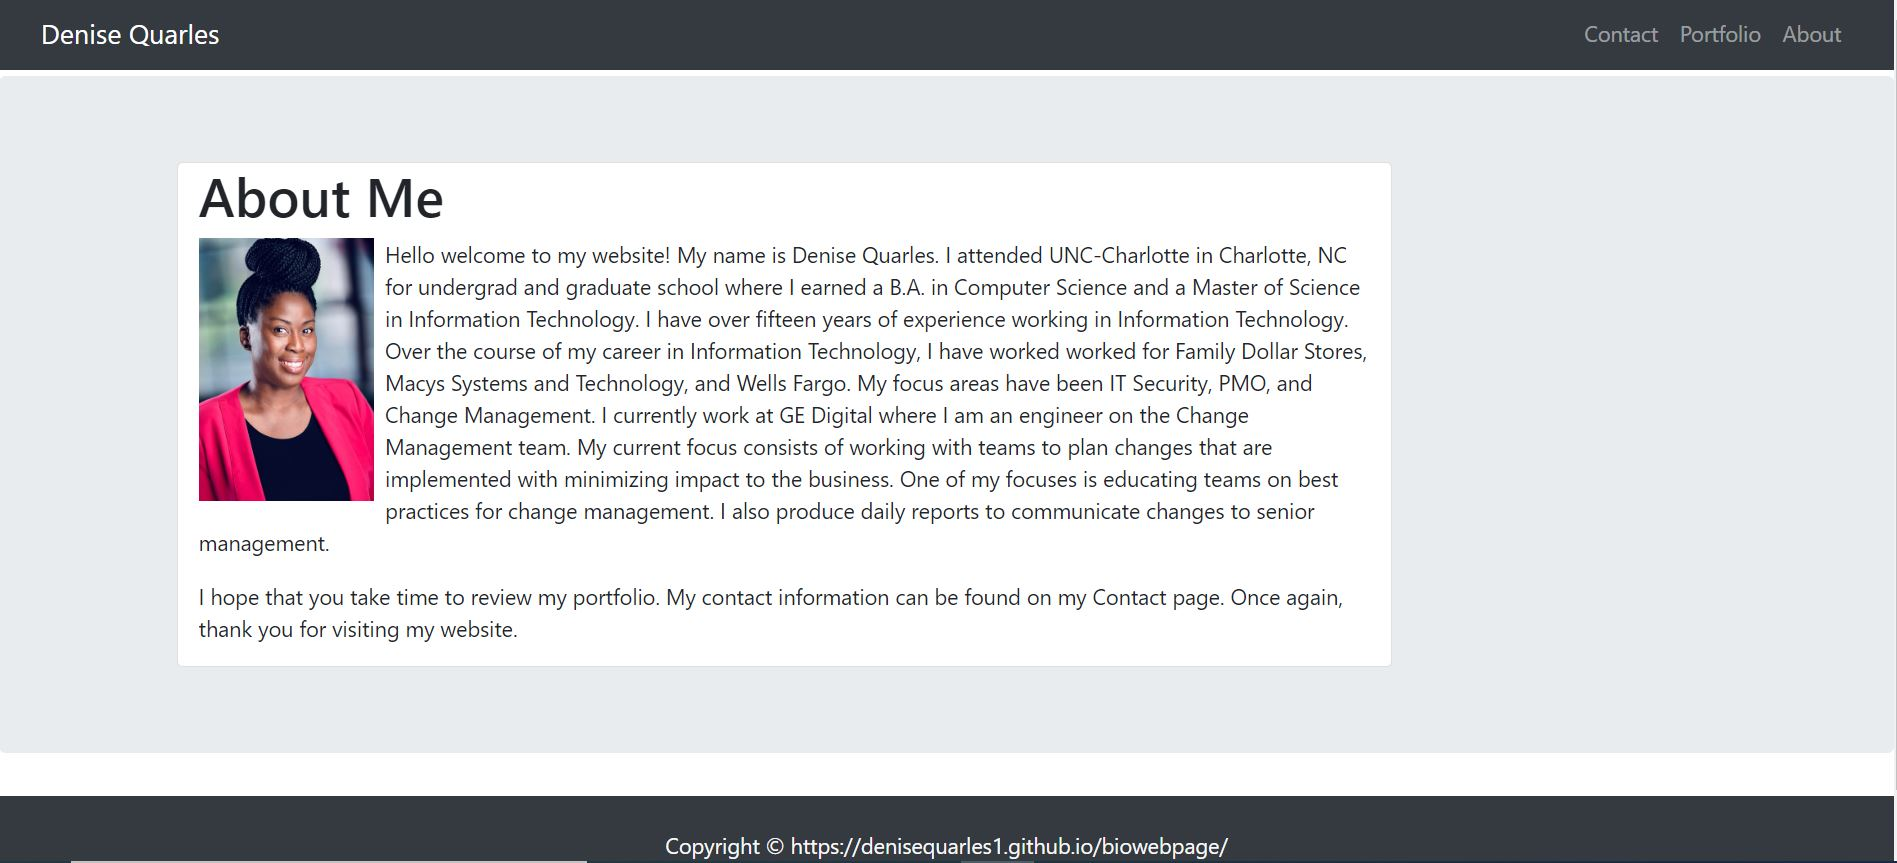
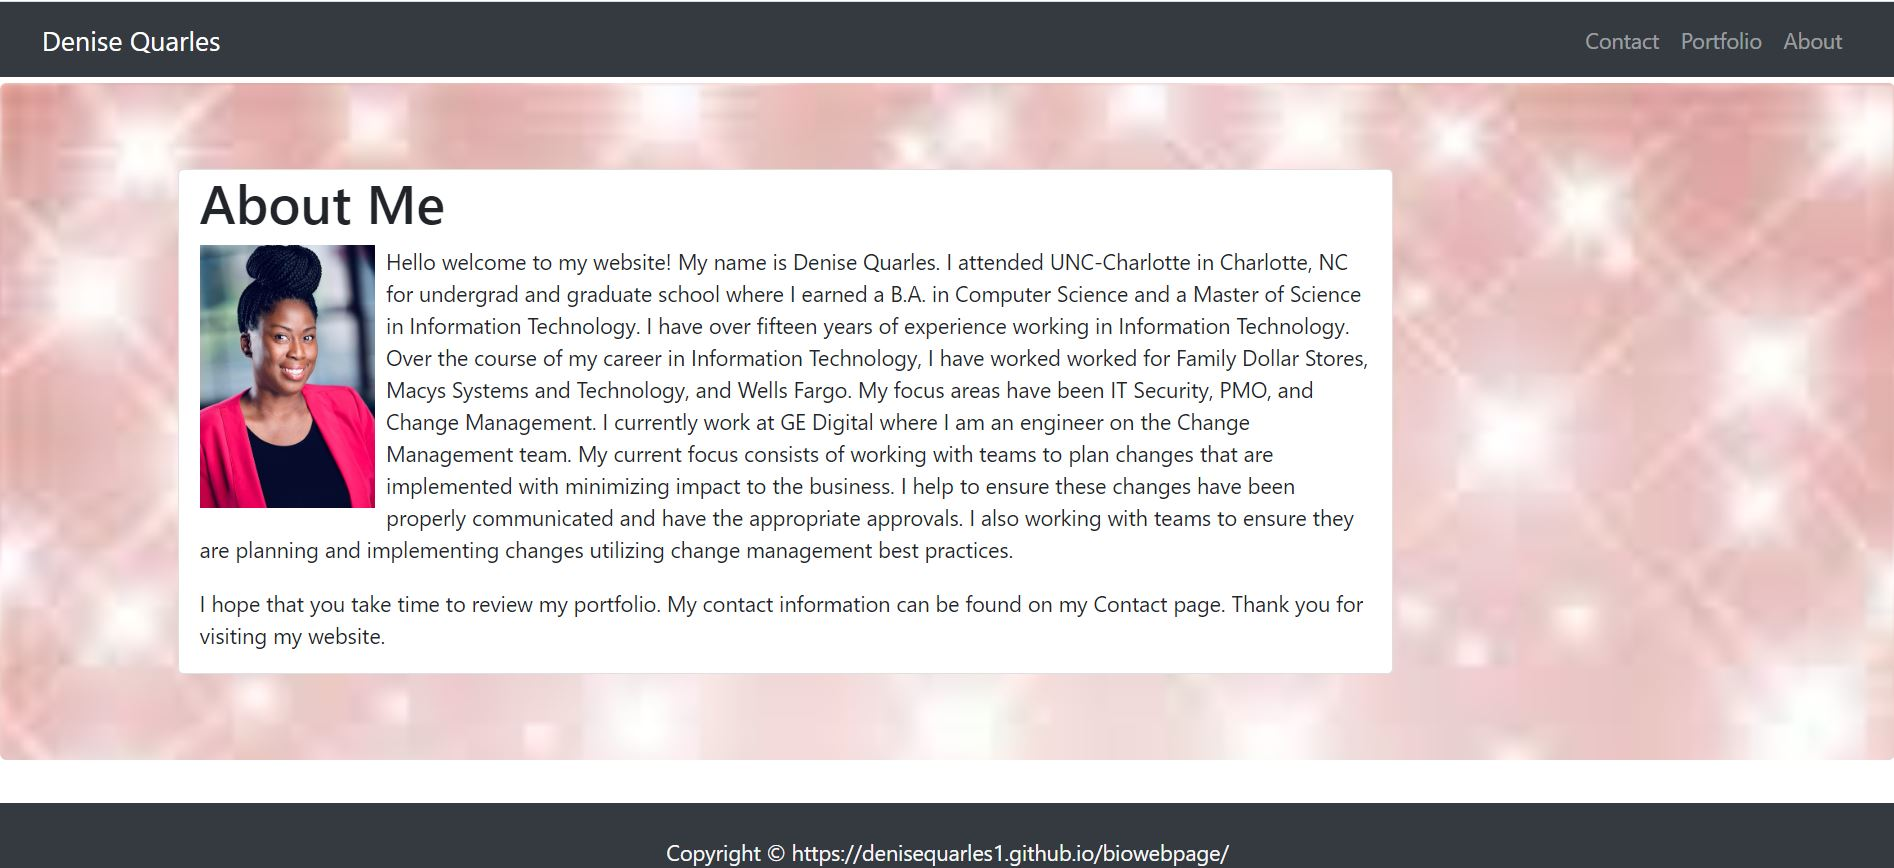
added new html file, css and page screenshot

diff --git a/index.html b/index.html
@@ -40,14 +40,14 @@
             <div class="container">
                 <div class="row">
                     <div class="card" style="width: 900px;">
-                        <div class="col-md-12">
-                            <h1>About Me</h1> 
+                    <div class="col-md-12">
+                        <h1>About Me</h1> 
                                 <img src="headshot.jpg" alt="Responsive image" style="width:auto" height="195" class="float-left mr-2 mb-1">
-                                <p>Hello welcome to my website! My name is Denise Quarles. I attended UNC-Charlotte in Charlotte, NC for undergrad and graduate school where I earned a B.A. in Computer Science and a Master of Science in Information Technology. I have over fifteen years of experience working in Information Technology. Over the course of my career in Information Technology, I have worked worked for Family Dollar Stores, Macys Systems and Technology, and Wells Fargo. My focus areas have been IT Security, PMO, and Change Management. I currently work at GE Digital where I am an engineer on the Change Management team. My current focus consists of working with teams to plan changes that are implemented with minimizing impact to the business. One of my focuses is educating teams on best practices for change management. I also produce daily reports to communicate changes to senior management. </p>        
+                                <p>Hello welcome to my website! My name is Denise Quarles. I attended UNC-Charlotte in Charlotte, NC for undergrad and graduate school where I earned a B.A. in Computer Science and a Master of Science in Information Technology. I have over fifteen years of experience working in Information Technology. Over the course of my career in Information Technology, I have worked worked for Family Dollar Stores, Macys Systems and Technology, and Wells Fargo. My focus areas have been IT Security, PMO, and Change Management. I currently work at GE Digital where I am an engineer on the Change Management team. My current focus consists of working with teams to plan changes that are implemented with minimizing impact to the business. I help to ensure these changes have been properly communicated and have the appropriate approvals. I also working with teams to ensure they are planning and implementing changes utilizing  change management best practices. </p>        
                         </div>
                     
                         <div class="col-md-12">
-                            <p>I hope that you take time to review my portfolio. My contact information can be found on my Contact page. Once again, thank you for visiting my website.</p> 
+                            <p>I hope that you take time to review my portfolio. My contact information can be found on my Contact page. Thank you for visiting my website.</p> 
                         </div> 
                     </div>
                 </div>

diff --git a/style.css b/style.css
@@ -1,0 +1,4 @@
+.background-pic{
+    background-image: url('picture.jpg');
+    background-size:100%;
+}
